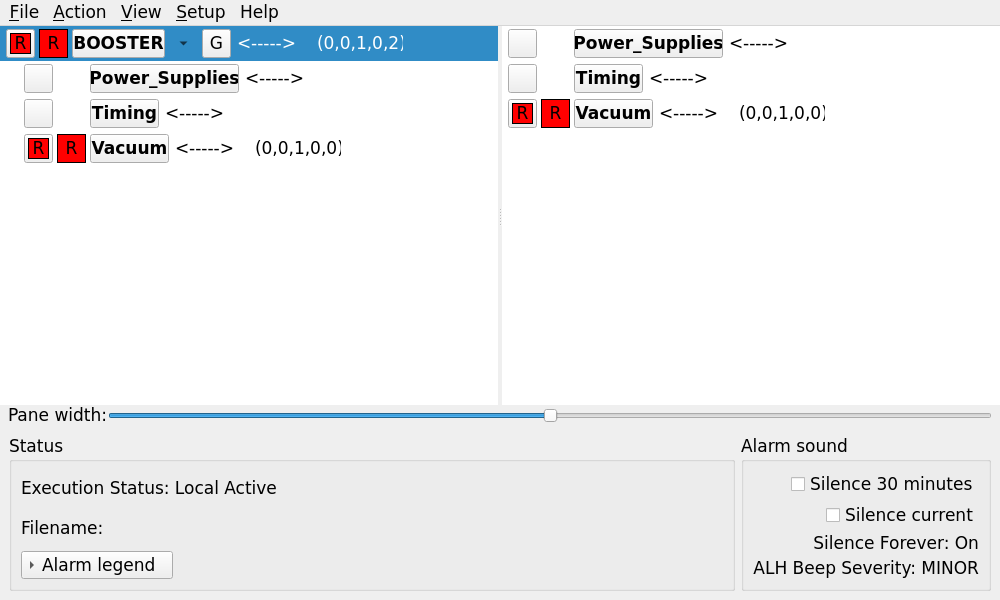
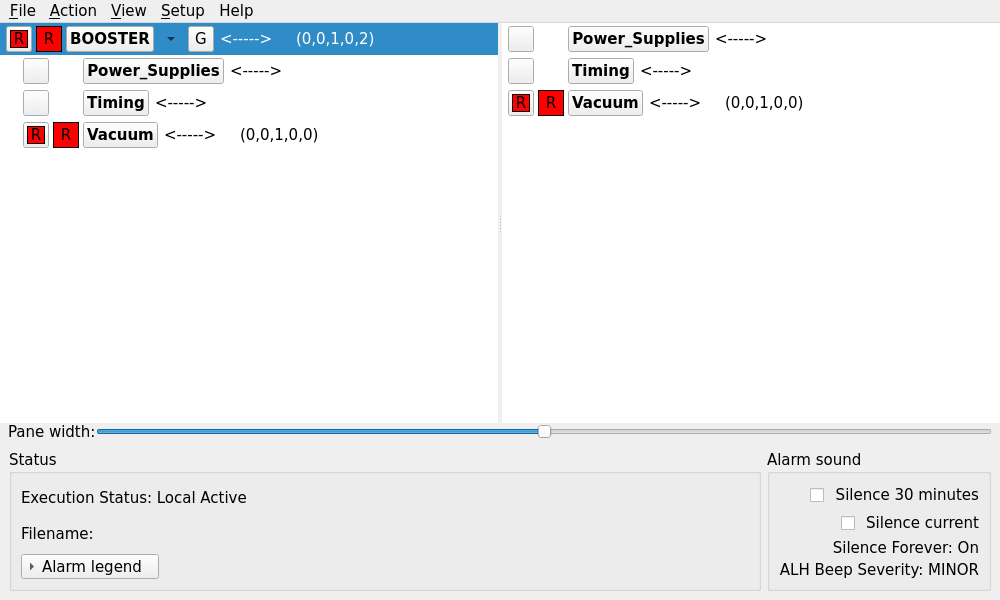
Updated the documentation again

diff --git a/qtalh/tests/test_visual.cc b/qtalh/tests/test_visual.cc
@@ -69,6 +69,11 @@ private slots:
         bool found = false;
         for (auto dialog : window->findChildren<QDialog*>())
           if (dialog->isVisible()) {
+            // Show every history column in screenshots used by the user guide.
+            if (!legacyAppearance() && dialog->objectName() == "historyDialog") {
+              dialog->resize(1000, 300);
+              QTest::qWait(30);
+            }
             QVERIFY(dialog->grab().save(output + '/' + file + ".png"));
             if (auto tabs = dialog->findChild<QTabWidget*>("propertyTabs")) {
               for (int tab = 1; tab < tabs->count(); ++tab) {

diff --git a/docs/site/operate/appearance.md b/docs/site/operate/appearance.md
@@ -1,0 +1,81 @@
+# Appearance & font size
+
+QtALH keeps its Motif-influenced appearance by default. Choose a Qt Widgets style
+at startup if you prefer modern controls. The same choice applies to the editor,
+its dialogs, and runtime windows activated from that editor.
+
+## Choose Fusion or keep Motif
+
+Fusion is a portable choice for Qt 5.15 and Qt 6 on Linux, macOS, and Windows.
+From the repository root, launch the runtime or editor with:
+
+```sh
+bin/Linux-x86_64/qtalh -style fusion -mainwindow examples/minimal.alhConfig
+bin/Linux-x86_64/qtalh -c -style fusion examples/minimal.alhConfig
+```
+
+The runtime connects to the configured PVs; the editor does not start monitoring.
+On macOS or Windows, substitute your platform's executable path.
+
+`-style=Fusion` also works. Style names are case-insensitive; the last occurrence
+wins. Other styles depend on the Qt installation. An unknown name reports the
+available styles before connecting to PVs. Omit `-style`, or use `-style motif`,
+to restore the original appearance. Environment style settings alone do not
+select the redesigned interface.
+
+### Fusion
+
+![Fusion main window with the alarm tree, contents pane, Status section, and Alarm sound controls](/images/fusion-main.png)
+
+The panes and alarm actions retain their behavior. Styled mode adds standard
+menus and controls, a labeled pane-width slider, and an **Alarm legend** that
+starts collapsed. Expand the legend to read the mask and alarm-count notation.
+The **Alarm sound** rows share a right-aligned text edge in every style.
+
+### Default Motif appearance
+
+![Default Motif-influenced main window using the same synthetic alarm fixture](/images/main-window.png)
+
+Both screenshots use repository test data rather than a live facility. Alarm
+colors, severity letters, mask meaning, blinking, and acknowledgement behavior
+are preserved across appearances. Typography and window decorations vary by
+platform.
+
+## Adjust the font while running
+
+These shortcuts are available with any explicitly selected style other than Motif:
+
+| Action | Linux / Windows | macOS |
+| --- | --- | --- |
+| Smaller by one point | Ctrl+− | Command+− |
+| Larger by one point | Ctrl++ or Ctrl+= | Command++ or Command+= |
+| Restore startup sizes | Ctrl+0 | Command+0 |
+
+The default is one point smaller than the desktop's font size, with a minimum of
+6 points. For example, an 11-point desktop UI font starts at 10 points in QtALH.
+The main UI can be adjusted from 6 to 72 points. Alarm rows and their click targets
+resize with the font, and open dialogs and new windows share the adjustment.
+Log/configuration text keeps its fixed-width family. Bare `+` and `-` still expand
+and collapse the alarm tree.
+
+`-fn`, `-font`, and `ALHMAINFONT` still select only the compact runtime button's
+font. An explicit font starts at its requested size; the shortcuts adjust it
+relative to that size, and reset restores it.
+
+Style and font adjustments last for this process only. No appearance preference
+is saved. Colors come from the selected style and desktop palette; there is no
+separate light/dark option.
+
+## Dialogs and compact runtime
+
+The compact window keeps its facility button and mask summary. Click it to open
+the main window; it grows with its content and font size.
+
+![Fusion compact runtime facility button](/images/fusion-runtime.png)
+
+[Properties](/configure/editor#edit-properties-and-guidance) uses four tabs:
+General, Force PV, Commands, and Guidance. Styled forms use **Close** for the
+dismiss action. Apply and Cancel retain their existing meanings. File selection
+uses Qt's styled file dialog; printing uses the platform's print dialog.
+
+For guidance and command previews, see [G and P buttons](/operate/alarms#open-guidance-or-a-related-process).

diff --git a/docs/site/public/images/README.md b/docs/site/public/images/README.md
@@ -1,13 +1,32 @@
 # Screenshot provenance
 
-`main-window.png` is the repository-owned `qtalh-main.png` fixture produced by
-`qtalh/tests/test_ui.cc` on Linux/Qt 5. It shows synthetic test data, not a live
-facility. Regenerate by running `make -C qtalh QT_VERSION=5 test-ui`, then copy
-the image from the selected object's `test-artifacts/` directory.
+These screenshots were refreshed on 2026-09-11 with Linux, Qt 5.15.3, and the
+`offscreen` platform. They show repository-owned synthetic test data; no
+production PVs were connected. The Fusion captures include the smaller default
+font and the right-aligned Alarm sound captions. Native window decorations,
+fonts, colors, and display scale can vary by platform.
 
-`fusion-main.png` is the Fusion version of the same synthetic UI fixture.
-`fusion-properties.png` is the editor Properties capture from the Qt-only
-`test_visual dialogGallery` case. Both were generated on Linux with Qt 5.15.3;
-no production PVs were connected. Regenerate with `test-ui-fusion test-gallery`,
-then copy `fusion-main.png` and `dialogs-fusion/qt-editor-properties.png` from
-`test-artifacts/` to these names. Native window decorations vary by platform.
+| Retained image | Source under the build's `test-artifacts/` directory |
+| --- | --- |
+| `main-window.png` | `qtalh-main.png` from `test_ui runtimeModels` in Motif mode |
+| `fusion-main.png` | `fusion-main.png` from `test_ui runtimeModels` in Fusion mode |
+| `fusion-properties.png` | `dialogs-fusion/qt-editor-channel-properties.png` |
+| `fusion-force-pv.png` | `dialogs-fusion/qt-channel-force.png` |
+| `fusion-history.png` | `dialogs-fusion/qt-history.png` |
+| `fusion-runtime.png` | `dialogs-fusion/qt-runtime.png` |
+
+Regenerate the captures from the repository root:
+
+```sh
+make -C qtalh QT_VERSION=5 test-ui test-ui-fusion test-gallery
+```
+
+Copy the files above from the selected object directory into this directory.
+The main-window test uses the BOOSTER hierarchy; the dialog gallery uses
+QTALH_REFERENCE with the synthetic Vacuum pressure channel. The history gallery
+widens the dialog to show all columns. The Force PV capture intentionally shows
+the scrollable form with its action row visible.
+
+Keep PNGs in version control. Markdown pages use `/images/...`; the site build
+copies them to `docs/html/images/`. Run `make docs` after replacing screenshots
+so the generated HTML and retained image assets stay in sync.

diff --git a/docs/site/operate/alarms.md b/docs/site/operate/alarms.md
@@ -16,6 +16,8 @@ bin/Linux-x86_64/qtalh -mainwindow /path/to/facility.alhConfig
 
 The compact facility window remains available. Its indication summarizes the facility; clicking the facility button opens the main window. Closing the main window hides it while monitoring continues. Close the compact window or choose File Exit/Close and confirm to stop the runtime.
 
+For modern controls, add `-style fusion`. See [Appearance & font size](/operate/appearance) for screenshots and font shortcuts.
+
 ## Navigate the hierarchy
 
 1. Select a group in the left tree to show its contents in the right pane.
@@ -53,10 +55,19 @@ Passive mode prevents acknowledgement. In global mode, the IOC must allow the wr
 
 ## Open guidance or a related process
 
-- **Ctrl+G** opens configured guidance: inline text, a local file, or a URL.
-- **Ctrl+P** runs the configured related process or opens its command menu.
+- Hover over **G** to read the configured guidance text without opening a dialog.
+  If guidance is a URL or file, the tooltip shows that configured reference;
+  it does not fetch the external content. Click **G** or use **Ctrl+G** to open it.
+- Hover over **P** to preview the command that will run. If several actions are
+  configured, the tooltip lists their labels and commands, including any
+  `MASTER_ONLY` restriction. Click **P** or use **Ctrl+P** to run the command or
+  open its action menu. Hovering never launches a process.
 - Properties and action dialogs follow the selected group/channel. Selecting another node changes their target; background updates preserve unfinished edits where supported.
 
-Related processes run actual configured commands on your host. Their syntax depends on the operating system.
+These previews work in both Motif and styled presentations. Related processes
+run configured commands on your host; their syntax depends on the operating
+system. A leading `medm` executable is replaced with `qtedm` from `PATH`, keeping
+its arguments. The P tooltip shows this effective command, while the saved
+configuration retains the original text.
 
 Continue with [silence and filters](/operate/silence-filters) or [historical logs](/operate/logs).

diff --git a/docs/site/configure/editor.md b/docs/site/configure/editor.md
@@ -10,6 +10,8 @@ From the repository root:
 bin/Linux-x86_64/qtalh -c examples/minimal.alhConfig
 ```
 
+Add `-style fusion` to use the tabbed Properties layout shown below.
+
 Use **Save As** to save your own file. To start an empty document instead, run `qtalh -c`.
 
 ## Add and name the hierarchy
@@ -23,9 +25,21 @@ There must be one root. Group names must not repeat an ancestor or use the reser
 
 ## Edit properties and guidance
 
-Select a node and open Properties. **Apply** validates and applies the fields while leaving the dialog open. **Cancel** restores the currently applied values; **Dismiss** closes the window. Selection dialogs follow your selected node.
+Select a node and open Properties. **Apply** validates and applies the fields while leaving the dialog open. **Cancel** restores the currently applied values; **Close** (styled mode) or **Dismiss** (Motif mode) closes the window. Selection dialogs follow your selected node.
+
+In styled mode, Properties organizes the fields into **General**, **Force PV**,
+**Commands**, and **Guidance** tabs. General contains identity, masks, count
+filtering, beep severity, PV settings, and alias. Apply, Cancel, and Close stay
+below the tabs. When the selected node changes, the dialog preserves the selected
+tab and scroll position; unfinished edits are protected from background refreshes.
+
+![Fusion channel Properties with the General tab selected](/images/fusion-properties.png)
+
+This screenshot uses the synthetic channel from the repository gallery.
 
 Add operator guidance explaining what to check when the alarm occurs. Inline `$GUIDANCE` text appears inside QtALH; a configured URL or file opens externally. Related `$COMMAND` actions should use commands and paths appropriate to the runtime host.
+
+Operators can hover over **G** to read guidance and **P** to preview related commands in either appearance.
 
 Undo uses **Alt+Backspace**, and redo uses **Ctrl+Y**. The editor also supports cut/copy/paste and copying between editor windows.
 

diff --git a/docs/site/develop/documentation.md b/docs/site/develop/documentation.md
@@ -53,6 +53,25 @@ To check that build again, pass the same prefix with `--check-only`.
 
 `scripts/sync-docs.py` refreshes imported pages and downloads. Generated pages contain a comment naming that script; edit their source documents rather than the generated copy. The sync step also carries the original manual and linked benchmark evidence into the website.
 
+## Application screenshots
+
+Keep actual QtALH captures in `docs/site/public/images/`, and record the fixture,
+Qt/platform version, and regeneration steps in that directory's `README.md`.
+Use the repository's synthetic UI/gallery fixtures rather than a production
+facility. The current main-window and dialog captures can be refreshed with:
+
+```sh
+make -C qtalh QT_VERSION=5 test-ui test-ui-fusion test-gallery
+```
+
+Copy the selected images from the build's `test-artifacts/` directory using the
+mapping in `docs/site/public/images/README.md`.
+Embed them with descriptive alt text, for example
+`![Fusion channel Properties](/images/fusion-properties.png)`, and explain the
+relevant controls beside the image. This Markdown image syntax also respects
+`DOCS_BASE` for sites hosted in a subdirectory. Rebuild with `make docs` and check
+that the generated pages reference image files present under `docs/html/images/`.
+
 ## Version control and cleanup
 
 Commit authored Markdown pages, site configuration and theme, `package.json`,

diff --git a/docs/site/operate/logs.md b/docs/site/operate/logs.md
@@ -21,6 +21,15 @@ The browser searches the selected current log and its `.yyyy-MM-dd` siblings. It
 | Current alarm history | The ten most recent in-memory history entries, separate from the files. |
 | Live log-file viewer | Viewing the current file separately from a historical search. |
 
+## Read current history
+
+Choose **View → Current Alarm History** for the most recent in-memory entries.
+The reading area is resizable and uses a fixed-width font to align the columns.
+In a non-Motif style, the [font-size shortcuts](/operate/appearance#adjust-the-font-while-running)
+also work while this dialog has focus.
+
+![Fusion current alarm history showing a synthetic HIHI/MAJOR transition](/images/fusion-history.png)
+
 ## Understand circular files
 
 The default alarm file holds 2000 records. After wrapping, physical line order is not chronological. The historical browser sorts recognized timestamps; events sharing one-second timestamps may still have ambiguous relative order.

diff --git a/docs/qtalh-user-guide.md b/docs/qtalh-user-guide.md
@@ -43,6 +43,16 @@ to open the main tree and group contents. Closing the main runtime window hides
 it while monitoring continues. Closing the compact window or using File
 Exit/Close asks for confirmation before stopping that runtime.
 
+### Preview guidance and commands
+
+Hover over a **G** button to read the configured guidance text. A configured URL
+or filename is also shown, without fetching its content. Click G or use Ctrl+G
+to open the guidance. Hover over **P** to preview the command that clicking it
+will launch; menus list each action and command, with `MASTER_ONLY` restrictions
+identified. Previews show the effective `qtedm` command when a leading `medm`
+executable is substituted. Hovering never opens guidance or executes commands.
+These tooltips work with both Motif and modern styles.
+
 ## Command-line reference
 
 Syntax: `qtalh [OPTIONS] [configfile]`. One configuration is supported per

diff --git a/docs/site/index.md b/docs/site/index.md
@@ -31,6 +31,14 @@ The example contains two placeholder PVs. [Open your first configuration](./get-
 <strong>Choosing a mode?</strong> Local mode keeps acknowledgements in your runtime. Global mode uses IOC acknowledgement fields. Passive mode prevents CA writes. <a href="./understand/alarm-lifecycle.html">Compare the modes →</a>
 </div>
 
+## Choose your appearance
+
+Keep the default Motif appearance, or start with `-style fusion` for modern
+controls. [Appearance & font size](./operate/appearance) shows both looks and
+explains the font-size shortcuts.
+
+![QtALH main window with Fusion styling](/images/fusion-main.png)
+
 ## Working on QtALH
 
 Read the [architecture](./develop/architecture), run the [test suites](./develop/testing), or inspect the [compatibility inventory](./understand/compatibility). Historical measurements and implementation investigations live in [Engineering history](./history/).

diff --git a/docs/site/configure/masks.md b/docs/site/configure/masks.md
@@ -28,6 +28,15 @@ $FORCEPV example:maintenance -D--- 1 0
 
 When `example:maintenance` becomes 1, Disable is applied. When it becomes 0, the configured channel mask is restored. A group Force PV acts on descendant channels. Use `NE` as the reset value to restore the mask when the force value is left.
 
+Open **Force Process Variable** (**Ctrl+V**) for the selected node. With a modern
+style, its grouped form scrolls while Close, Cancel, and Apply remain visible.
+Scroll down to reach the CALC expression and inputs.
+
+![Fusion Force PV dialog showing the enable setting, mask, and force/reset values](/images/fusion-force-pv.png)
+
+The screenshot shows the repository's synthetic CALC example with Disable selected
+and an `NE` reset, rather than the literal-PV example above.
+
 ## Use an expression
 
 A calculated Force PV requires an expression. Inputs A–F can be constants or PV names:

diff --git a/docs/site/operate/silence-filters.md b/docs/site/operate/silence-filters.md
@@ -6,6 +6,10 @@ Change what you hear or see without changing which channels QtALH monitors.
 
 Use **Setup** to choose a silence interval or **Silence Forever**. The available intervals are 5, 10, 15, 30, and 60 minutes; the default interval is 30 minutes. Starting with `-s` enables Silence Forever, which can be changed in the running application.
 
+In styled mode, the **Alarm sound** box groups the timed-silence and current-alarm
+checkboxes with **Silence Forever** status and **ALH Beep Severity**. All four
+lines align to the right, as they do in Motif. See the [main-window screenshots](/operate/appearance).
+
 Silence does not acknowledge an alarm, stop monitoring, or disable logging. Use acknowledgement separately after reviewing the alarm.
 
 ## Choose which severities can sound

diff --git a/docs/qtalh-appearance.md b/docs/qtalh-appearance.md
@@ -14,6 +14,10 @@ buttons, disclosure indicators, focus/selection feedback, a standard splitter
 and width slider, and separate Status and Alarm sound sections. Alarm legend
 starts collapsed. Alarm colors and severity letters remain visible on both light
 and dark palettes; normal surfaces use the selected style and system palette.
+The Alarm sound captions and status lines share the same right-aligned text edge
+in every style. G tooltips preview guidance text or its configured external
+reference; P tooltips preview the effective command or menu of commands. These
+previews also work in Motif mode.
 Fonts and row hit targets scale together. No widgets are allocated per alarm row.
 
 Styled fonts default to one point smaller than the system font sizes (with a
